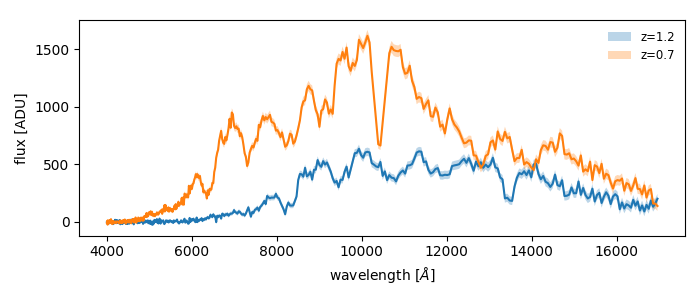
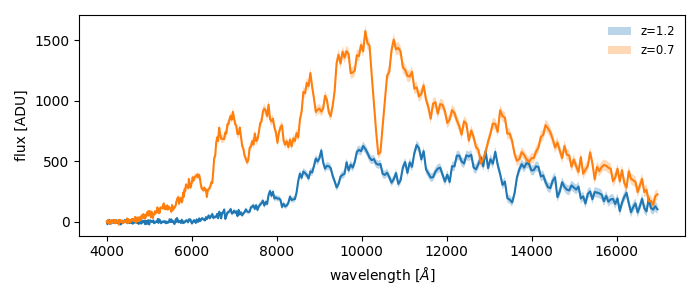
missing file

diff --git a/slicersim/scene/scene.py b/slicersim/scene/scene.py
@@ -1,0 +1,309 @@
+import warnings
+import pprint
+
+import numpy as np
+
+from ..iotools import read_calspec, read_xshooter, chromatic_interpolator
+from ..utils import recover_bin_edges
+
+
+# ================= #
+#                   #
+#     Class         #
+#                   #
+# ================= #
+class Scene:
+    """
+    Scene description.
+
+    A scene will potentially contain three elements:
+
+    * a target point source (an SN, possibly a standard star),
+    * a uniform background (e.g. the zodiacal background),
+    * a structured background (e.g. the host galaxy).
+
+    .. Warning:: the structured `host` is not implemented, and the scene
+       does not include the thermal background from telescope.
+    """
+
+    def __init__(self, target=None, background=None, host=None,
+                 lbda=None, meta={}):
+        """
+        A scene is initialized from spectro-spatial elements.
+
+        :param target: target point source spectrum [erg/s/cm²/Å]
+        :param background: uniform background spectrum [erg/s/cm²/Å/arcsec²]
+        :param host: structured background cube [erg/s/cm²/Å/arcsec²]
+        :param lbda: wavelength [Å]
+        :param dict meta: element metadata, `{target:{}, ...}`
+        :param dict kwargs: more element metadada
+        :return: the simulated scene
+
+        :seealso from_config: load the scene from a configuration file.
+        """
+
+        self._target = target          #: Target point-source spectrum [erg/s/cm²/Å]
+        self._background = background  #: Background spectrum [erg/s/cm²/Å/arcsec²]
+        self._host = host              #: Host (**not yet implemented**)
+        self._lbda = lbda              #: Wavelength [Å]
+        self._scene_meta = meta.copy()#: Meta-parameters
+
+    def __str__(self):
+
+        return pprint.pformat(self.meta, sort_dicts=False)
+
+    @classmethod
+    def from_config(cls, config, lbda=None):
+        """
+        Initiate scene from config dictionary.
+
+        :param dict config: configuration dictionary containing (or not)
+             `{"point_source": {}, "background": {}, "host":{}}`.  A missing
+             element has no contribution to the scene.
+        :param lbda: wavelength [Å]
+        :return: scene instance
+        """
+        from . import pointsource, background
+        
+        config = config.copy()
+        target_config = config.pop("point_source", {}) # rename target ?
+        background_config = config.pop("background", {})
+        host_config = config.pop("host", {})
+
+        if target_config:      # initialize point-source spectrum from config
+            target = pointsource.PointSource.from_config(target_config)
+        else:
+            target = None
+
+        if background_config:  # initialize background spectrum from config
+            background = background.Background.from_config(background_config)
+        else:
+            background = None
+
+        if host_config:        # initialize host from config
+            # raise NotImplementedError("Host element not implemented.")
+            warnings.warn("Host element not implemented, ignored.")
+            host = None
+        else:
+            host = None
+
+        return cls(target=target,
+                   background=background,
+                   host=host,
+                   lbda=lbda,
+                   meta=config) # config don't contains elements anymore.
+
+  
+    def has_element(self, element):
+        """
+        Tests if the element is present in scene.
+
+        :param str element: element name (target, background, host)
+        """
+
+        return getattr(self, element, None) is not None
+
+
+    def update(self, **kwargs):
+        """ change any mutable_parameters (see self.mutable_parameters) 
+        
+        for convinience, the update method respects the django '__' format, 
+        such that, e.g. 'target__phase' is understood as 'target.phase'.
+        This way, one can do:
+        >>> self.update(target__phase = -1)
+        """
+        updates_target = {}
+        updates_host = {}
+        updates_background = {}
+        
+        for k, v in kwargs.items():
+            k = k.replace("__", ".") # django like 
+            if k not in self.mutable_parameters:
+                warnings.warn(f"Parameter {k!r} is not mutable.")
+                continue
+
+            if v is None:        # Skip
+                continue
+
+            # special case
+            if k == "lbda":
+                self._lbda = v
+
+
+            if k.startswith("target."):
+                updates_target[k.replace("target.","")] = v
+                
+            elif k.startswith("background."):
+                updates_background[k.replace("background.","")] = v
+                
+            elif k.startswith("host."):
+                updates_host[k.replace("host.","")] = v
+
+            else:
+                raise ValueError(f"Unknown scene parameter {k!r}.")
+
+        if self.target is not None:
+            self.target.update(**updates_target)
+            
+        if self.background is not None:
+            self.background.update(**updates_background)
+            
+        if self.host is not None:
+            self.host.update(**updates_host)
+
+    def get_element_spectrum(self, which, lbda=None, fillna=0, **kwargs):
+        """ """
+        if lbda is None:
+            lbda = self._lbda
+            if lbda is None:
+                raise ValueError("no lbda given and None loading as self.lbda")
+        
+        element = getattr(self, which)
+        if element is None:
+            spec = np.full_like(lbda, fillna)
+        else:
+            _, spec = element.get_spectrum(lbda, **kwargs)
+            
+        return lbda, spec
+
+        
+    def get_stacked_spectra(self, lbda=None, fillna=0):
+        """
+        Get the stack of all scene element spectra (target, host, background).
+
+        :param float fillna: if a spectrum is not defined, an array of fillna
+                             will be set.
+        """
+        if lbda is None:
+            lbda = self._lbda
+            if lbda is None:
+                raise ValueError("no lbda given and None loading as self.lbda")
+
+        
+        spectra = [s_.get_spectrum(lbda)[1] if s_ is not None else np.full_like(lbda, fillna)
+                    for s_ in [self.target, self.host, self.background]]
+
+        return lbda, np.stack(spectra)
+
+    def plot_background(self, ax=None, in_log=True, **kwargs):
+        """
+        Background spectrum plot.
+
+        :param pyplot.Axes ax: plot axes
+        :param bool in_log: plot the spectrum in log-scale
+        :param kwargs: propagated to to `ax.plot()`
+        :return: plot axes
+        """
+
+        if ax is None:
+            import matplotlib.pyplot as plt
+            fig, ax = plt.subplots()
+
+        flux = self.background  # background spectrum [erg/s/cm²/Å/arcsec²]
+        if in_log:
+            flux = np.log10(flux)
+            ylabel = "log(Flux [fλ/arcsec²])"
+        else:
+            ylabel = "Flux [fλ/arcsec²]"
+
+        default = dict()#ds='steps-mid')
+        model_name = self.meta.get('background').get('model')
+        ax.plot(self.lbda / 1e4, flux, **{**default, **kwargs})
+        ax.set(xlabel="Wavelength [µm]",
+               ylabel=ylabel,
+               title=f"Background spectrum ({model_name})")
+
+        return ax
+
+    def plot_target(self, ax=None, in_log=True, **kwargs):
+        """
+        Point-source spectrum plot.
+
+        :param pyplot.Axes ax: plot axes
+        :param bool in_log: plot the spectrum in log-scale
+        :param kwargs: propagated to to `ax.plot()`
+        :return: plot axes
+        """
+
+        if ax is None:
+            import matplotlib.pyplot as plt
+            fig, ax = plt.subplots()
+
+        flux = self.target  # point-source spectrum [erg/s/cm²/Å]
+        if in_log:
+            flux = np.log10(flux)
+            ylabel = "log(Flux [fλ])"
+        else:
+            ylabel = "Flux [fλ]"
+
+        if self.meta.get("target", None) is None:
+            title = None
+        else:
+            title = (f"{self.meta['target']['name']} "
+                     f"({self.meta['target']['source']})")
+            
+            
+        default = dict()#ds='steps-mid')
+        ax.plot(self.lbda / 1e4, flux, **{**default, **kwargs})
+        ax.set(xlabel="Wavelength [µm]",
+               ylabel=ylabel,
+               title=title)
+
+        return ax
+
+    # =============== #
+    #  Properties     #
+    # =============== #
+    @property
+    def target(self):
+        """ the scene point source """
+        return self._target
+
+    @property
+    def background(self):
+        """ the scene spatially flat background """
+        return self._background
+
+    @property
+    def host(self):
+        """ the scene structured background """
+        return self._host
+    
+    @property
+    def mutable_parameters(self):
+        """ list of mutable parameters """
+        # lbda is special. it is a shared parameters
+        if self.target is not None:
+            target_ = [f"target.{pname_}" for pname_ in self.target.mutable_parameters if pname_ != "lbda"]
+        else:
+            target_ = []
+        
+        if self.background is not None:
+            background_ = [f"background.{pname_}" for pname_ in self.background.mutable_parameters if pname_ != "lbda"]
+        else:
+            background_ = []
+
+        if self.host is not None:
+            host_ = [f"host.{pname_}" for pname_ in self.host.mutable_parameters if pname_ != "lbda"]
+        else:
+            host_ = []
+
+        return ["lbda"]+target_+background_+host_
+
+    @property
+    def meta(self):
+        """ """
+        return {"target": self.target.meta if self.target is not None else None,
+                "background": self.background.meta if self.background is not None else None,
+                "host": self.host.meta if self.host is not None else None
+                } | self._scene_meta
+                    
+
+    
+    @property
+    def target_position(self):
+        """
+        Target position (from `self.meta`),
+        """
+        return self.target.position
+    